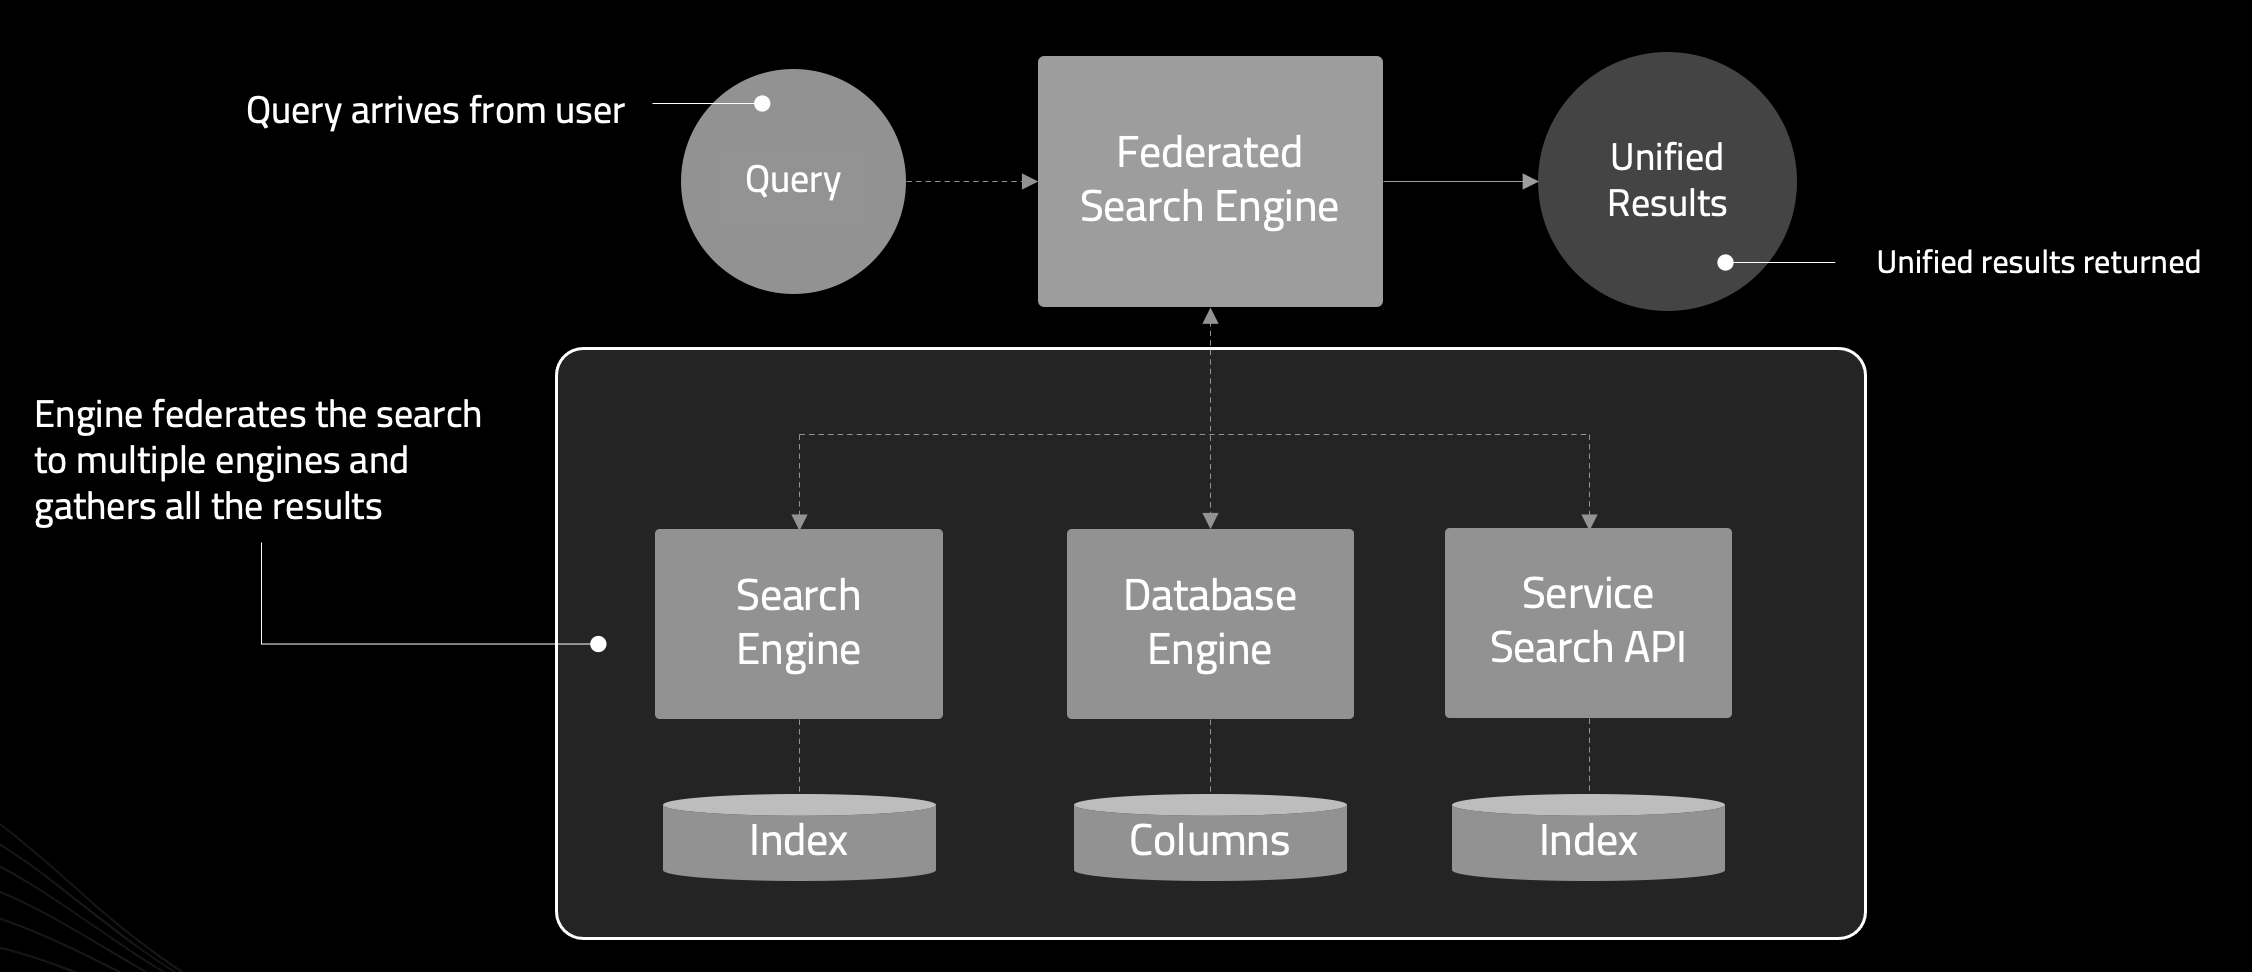
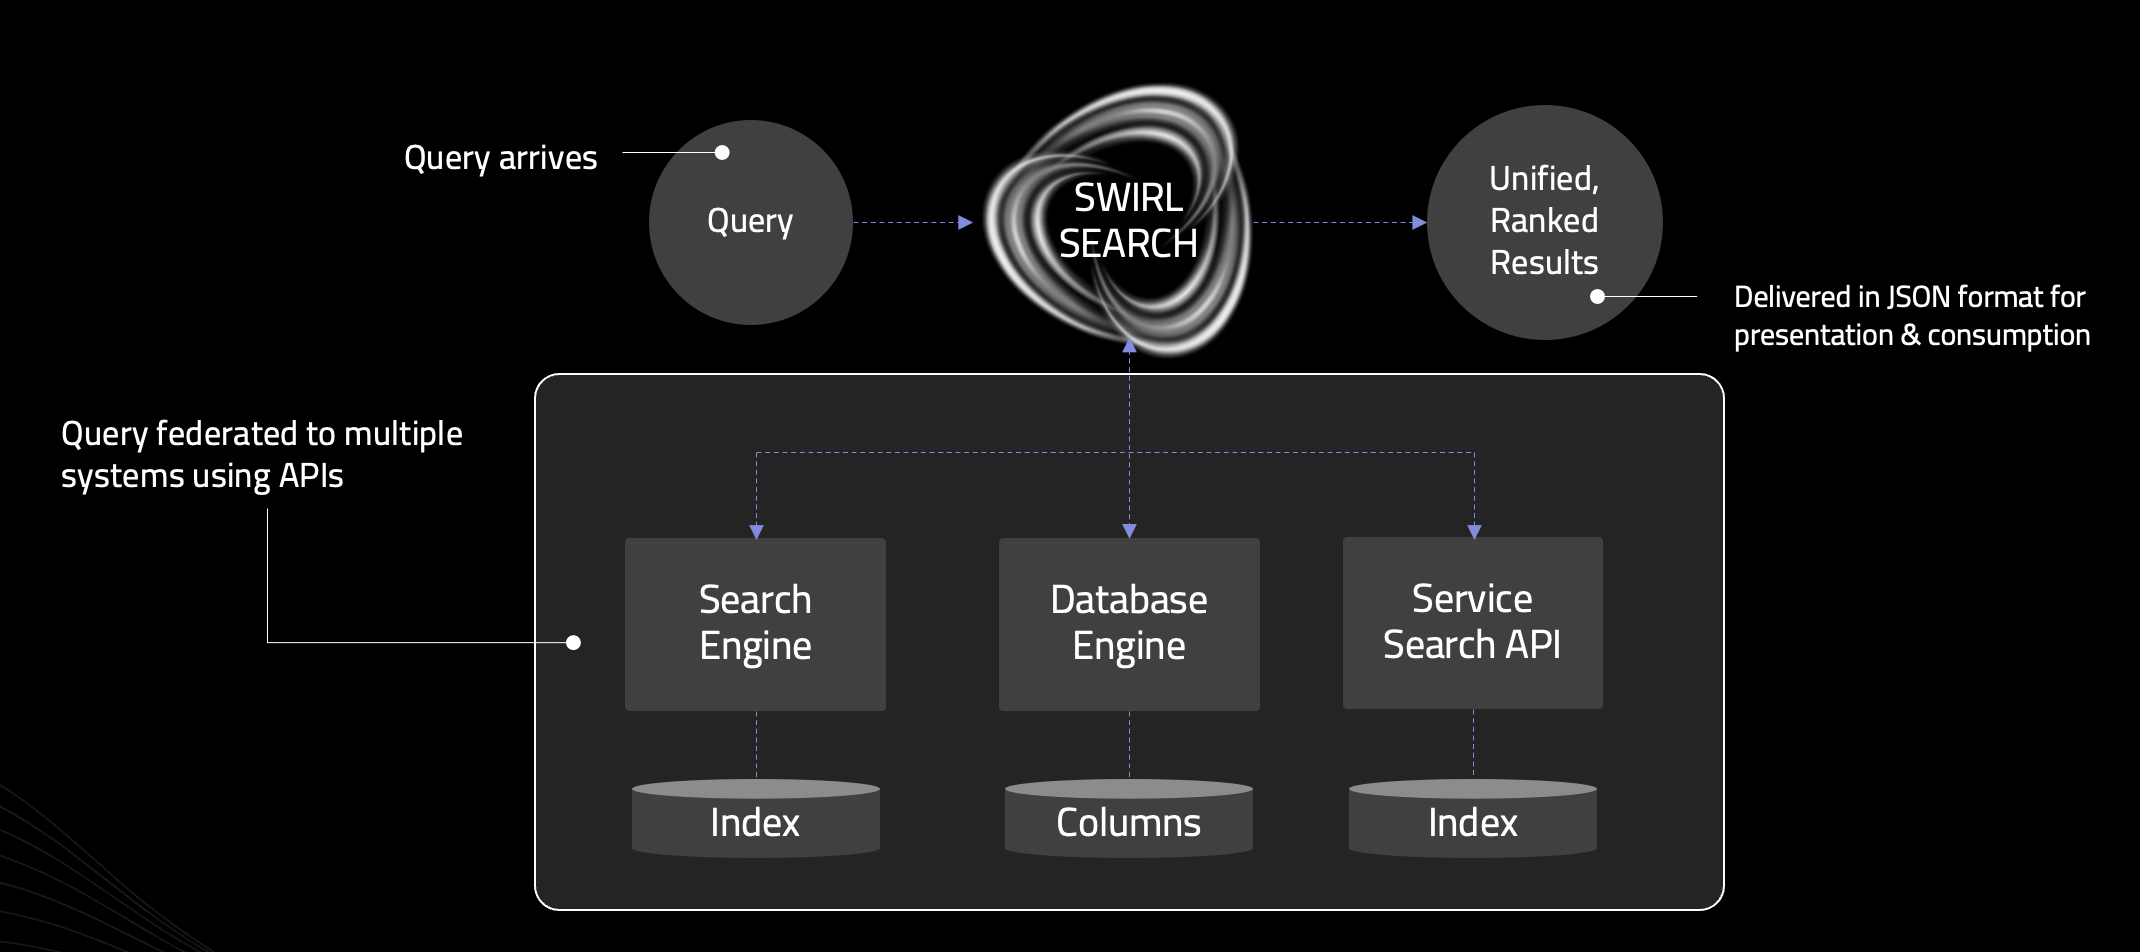
SWIRL SEARCH 1.8
Updated README, revised federation diagram

diff --git a/README.md b/README.md
@@ -1,19 +1,16 @@
 <h1> &nbsp; SWIRL SEARCH <img alt='SWIRL Logo' src='https://raw.githubusercontent.com/sidprobstein/swirl-search/main/docs/images/swirl_logo_notext_200.jpg' width=38 align=left /></h1>
 
-## AI Federated Search Engine
-
-SWIRL queries any number of data sources - search engines, databases, noSQL engines, cloud/SaaS services with APIs etc - and uses [Large Language Models](https://techcrunch.com/2022/04/28/the-emerging-types-of-language-models-and-why-they-matter/) to re-rank the unified results *without* extracting and indexing *anything*. 
+SWIRL adapts and distributes queries to any data source with searchable API - search engines, databases, noSQL engines, cloud/SaaS services etc - and uses AI ([Large Language Models](https://techcrunch.com/2022/04/28/the-emerging-types-of-language-models-and-why-they-matter/)) to re-rank the unified results *without* extracting and indexing *anything*. It's intended for use by developers and data scientists who want to solve multi-silo search problems from enterprise search to new monitoring & alerting solutions that push information to users continuously.
 
 ![Federated search diagram](https://raw.githubusercontent.com/sidprobstein/swirl-search/main/docs/images/federation_diagram.png)
 
-Built on the python/django/rabbit stack, SWIRL includes connectors to [elastic](https://www.elastic.co/cn/downloads/elasticsearch), apache [solr](https://solr.apache.org/), [PostgreSQL](https://www.postgresql.org/) and generic HTTP/GET/JSON with configurations for premium services like Google's Programmable Search Engine, NLResearch.com, newsdata.io and more. 
+Built on the python/django/rabbit stack, SWIRL includes connectors to [elastic](https://www.elastic.co/cn/downloads/elasticsearch), apache [solr](https://solr.apache.org/), [PostgreSQL](https://www.postgresql.org/), [Google BigQuery](https://cloud.google.com/bigquery) plus generic HTTP/GET/JSON with configurations for premium services like Google's Programmable Search Engine and NLResearch.com. 
 
-Learn more about [Federated Search](https://en.wikipedia.org/wiki/Federated_search) and 
-[SWIRL SEARCH on the project WIKI...](https://github.com/sidprobstein/swirl-search/wiki)
+:star: Learn more about SWIRL SEARCH on the [Documentation Wiki](https://github.com/sidprobstein/swirl-search/wiki)
 
 <br/>
 
-# How to use SWIRL:
+# Use SWIRL:
 
 1. Load [SearchProviders](https://github.com/sidprobstein/swirl-search/wiki/2.-User-Guide#searchproviders) as described in the [Quick Start](https://github.com/sidprobstein/swirl-search/wiki/1.-Quick-Start#install-searchproviders):
 
@@ -31,7 +28,7 @@ http://localhost:8000/swirl/search/?q=knowledge+management
 
 <br/>
 
-# Get SWIRL Now:
+# Try SWIRL Now:
 
 ```
 docker pull sidprobstein/swirl-search
@@ -82,9 +79,9 @@ Results will appear in just a few seconds!
 
 <br/>
 
-# Hosted SWIRL
+# Try Hosted SWIRL
 
-## If you are interested in a free trial of SWIRL as a managed service, please [contact support](#support)!
+## If interested in a free trial of SWIRL as a managed service, please [contact support](#support)!
 
 <br/>
 
@@ -117,15 +114,19 @@ Results will appear in just a few seconds!
 
 * [Synchronous or asynchronous search federation](https://github.com/sidprobstein/swirl-search/wiki/3.-Developer-Guide#architecture) via [APIs](http://localhost:8000/swirl/swagger-ui/)
 
-* Data landed in Sqlite3 or PostgreSQL for post-processing, consumption and analytics
+* [Optional subscribe feature](https://github.com/sidprobstein/swirl-search/wiki/2.-User-Guide#subscribing-to-a-search) to continuously monitor any search for new results 
+
+* Data landed in Sqlite3 or PostgreSQL for post-processing, consumption and/or analytics
 
 * [Matching on word stems](https://github.com/sidprobstein/swirl-search/wiki/2.-User-Guide#relevancy) and [handling of stopword](https://github.com/sidprobstein/swirl-search/wiki/4.-Object-Reference#stopwords-language) via NLTK
 
+* [Duplicate detection](https://github.com/sidprobstein/swirl-search/wiki/2.-User-Guide#detecting-and-removing-duplicate-results) on field or by configurable Cosine Similarity threshold
+
 * Re-ranking of unified results [using Cosine Vector Similarity](https://github.com/sidprobstein/swirl-search/wiki/2.-User-Guide#relevancy) based on [spaCy](https://spacy.io/)'s large language model and [NLTK](https://www.nltk.org/)
 
-* [Result mixers](https://github.com/sidprobstein/swirl-search/wiki/2.-User-Guide#result-mixers) order results by relevancy, date, stack or round-robin
+* [Result mixers](https://github.com/sidprobstein/swirl-search/wiki/2.-User-Guide#result-mixers) order results by relevancy, date or round-robin (stack) format, with optional filtering of just new items in subscribe modes
 
-* Page through all results requested, re-run and re-score searches using URLs provided in each result set
+* Page through all results requested, re-run, re-score and update searches using URLs provided with each result set
 
 * [Sample data sets](https://github.com/sidprobstein/swirl-search/tree/main/Data) for use with Sqlite3 and PostgreSQL
 
@@ -135,7 +136,7 @@ Results will appear in just a few seconds!
 
 * Easily extensible [Connector](https://github.com/sidprobstein/swirl-search/tree/main/swirl/connectors) and [Mixer](https://github.com/sidprobstein/swirl-search/tree/main/swirl/mixers) objects
 
-* [Available under the Apache 2.0 License](./LICENSE)
+* [Source code & docker images provided under the Apache 2.0 License](./LICENSE)
 
 <br/>
 
